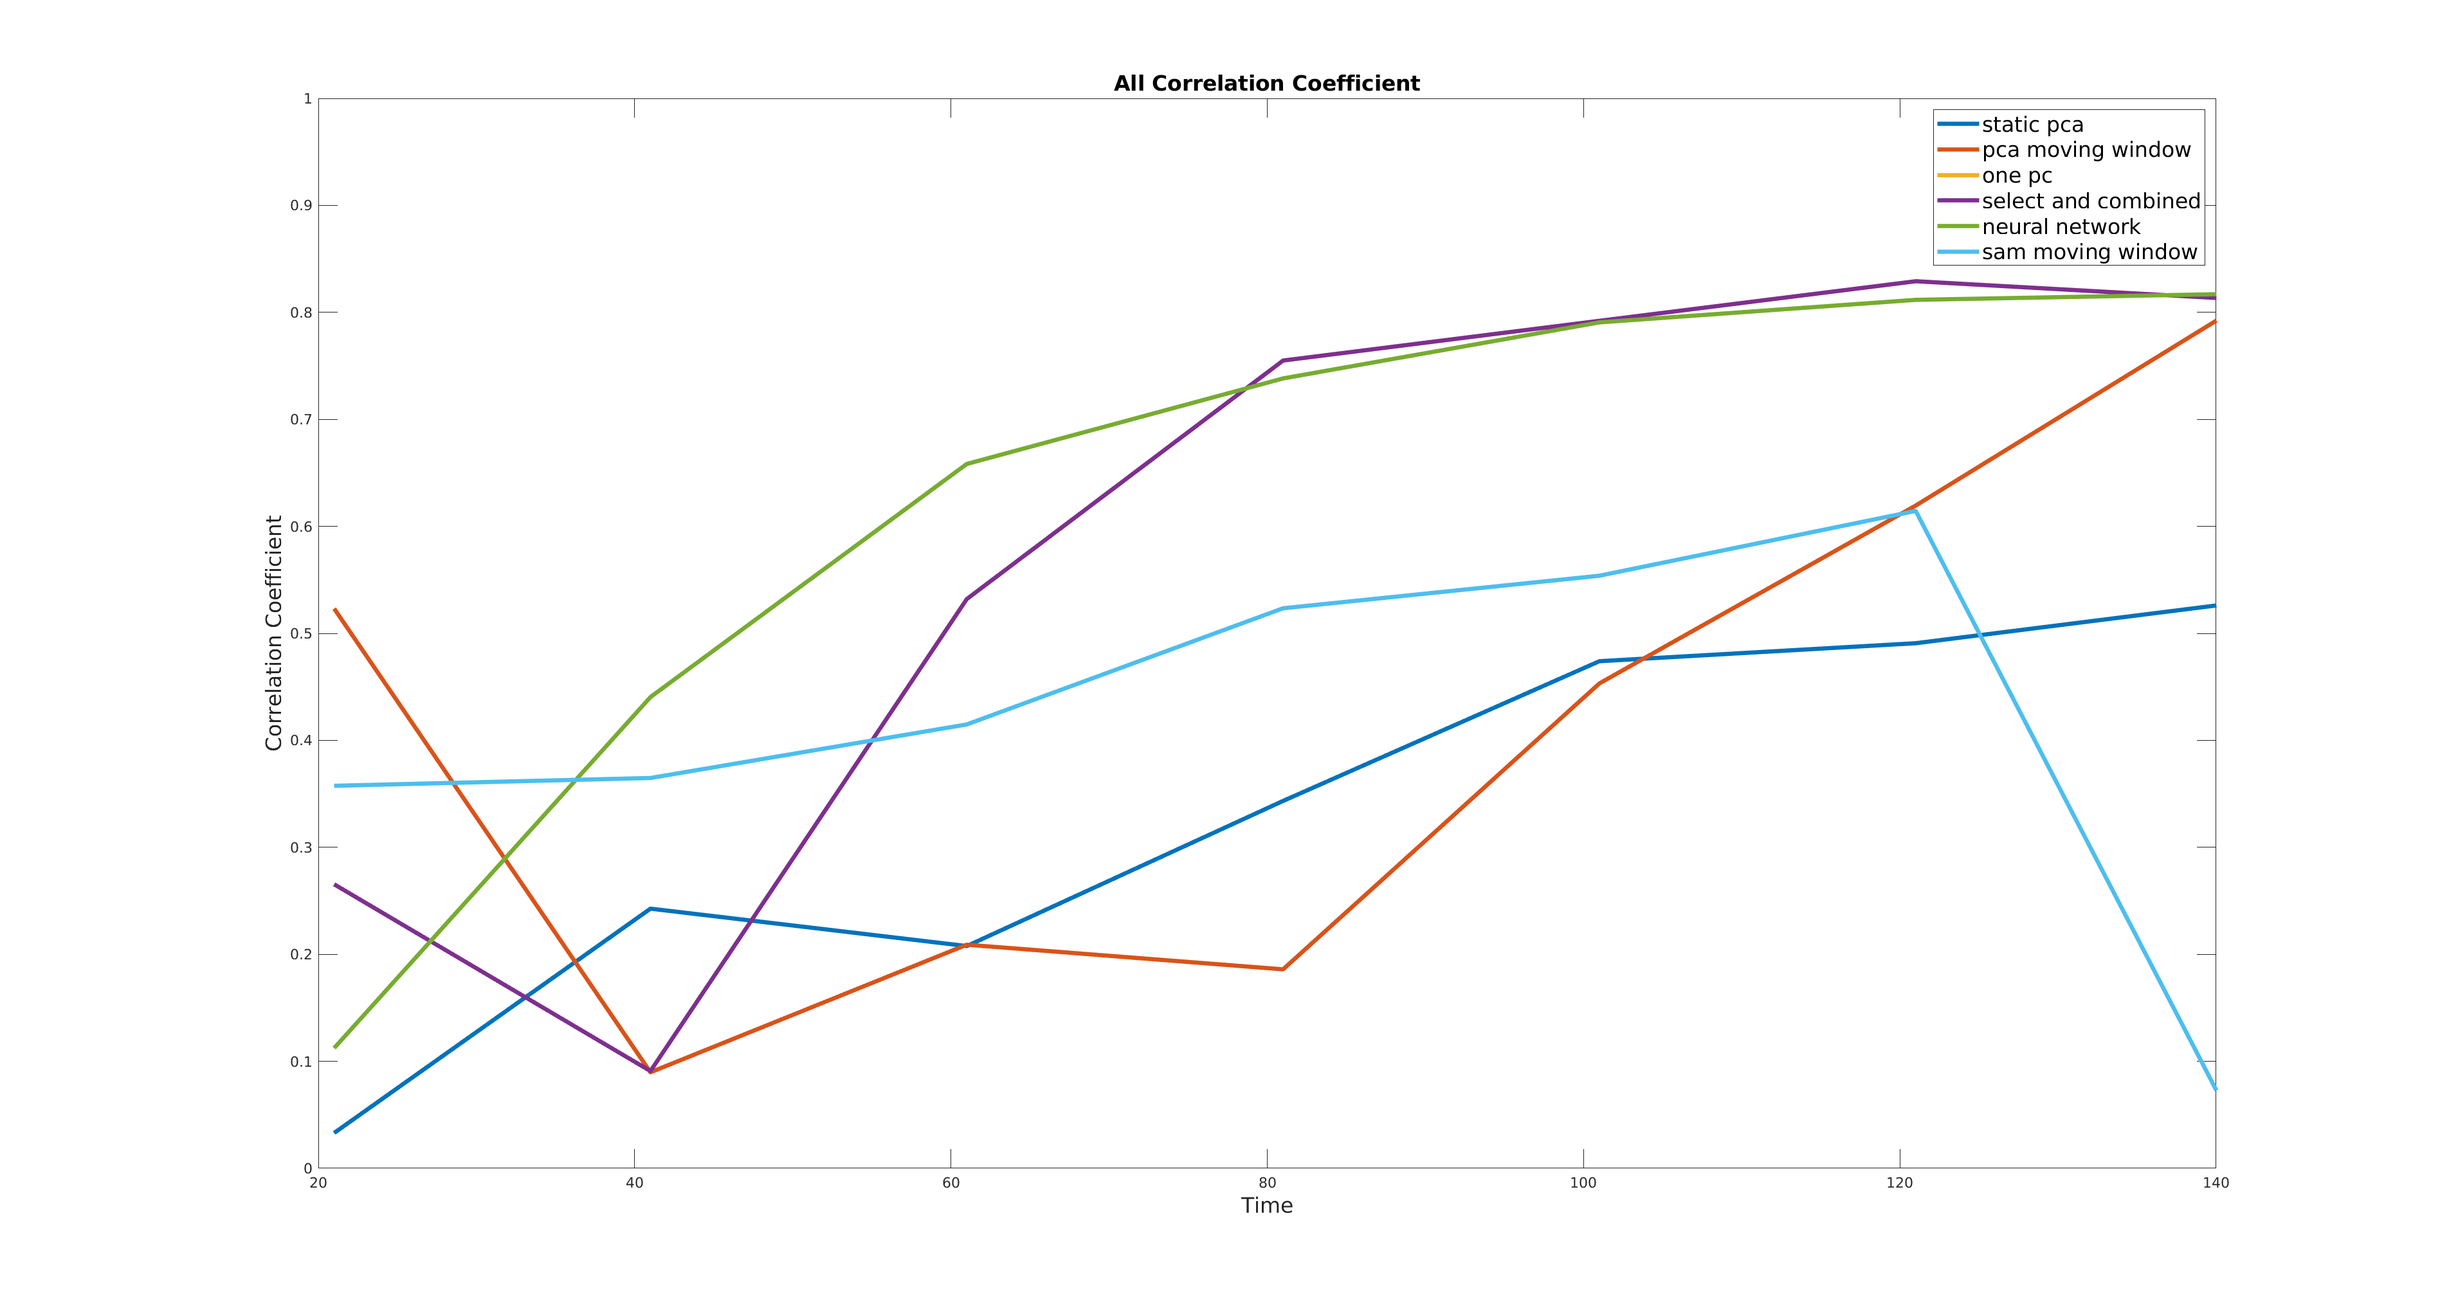
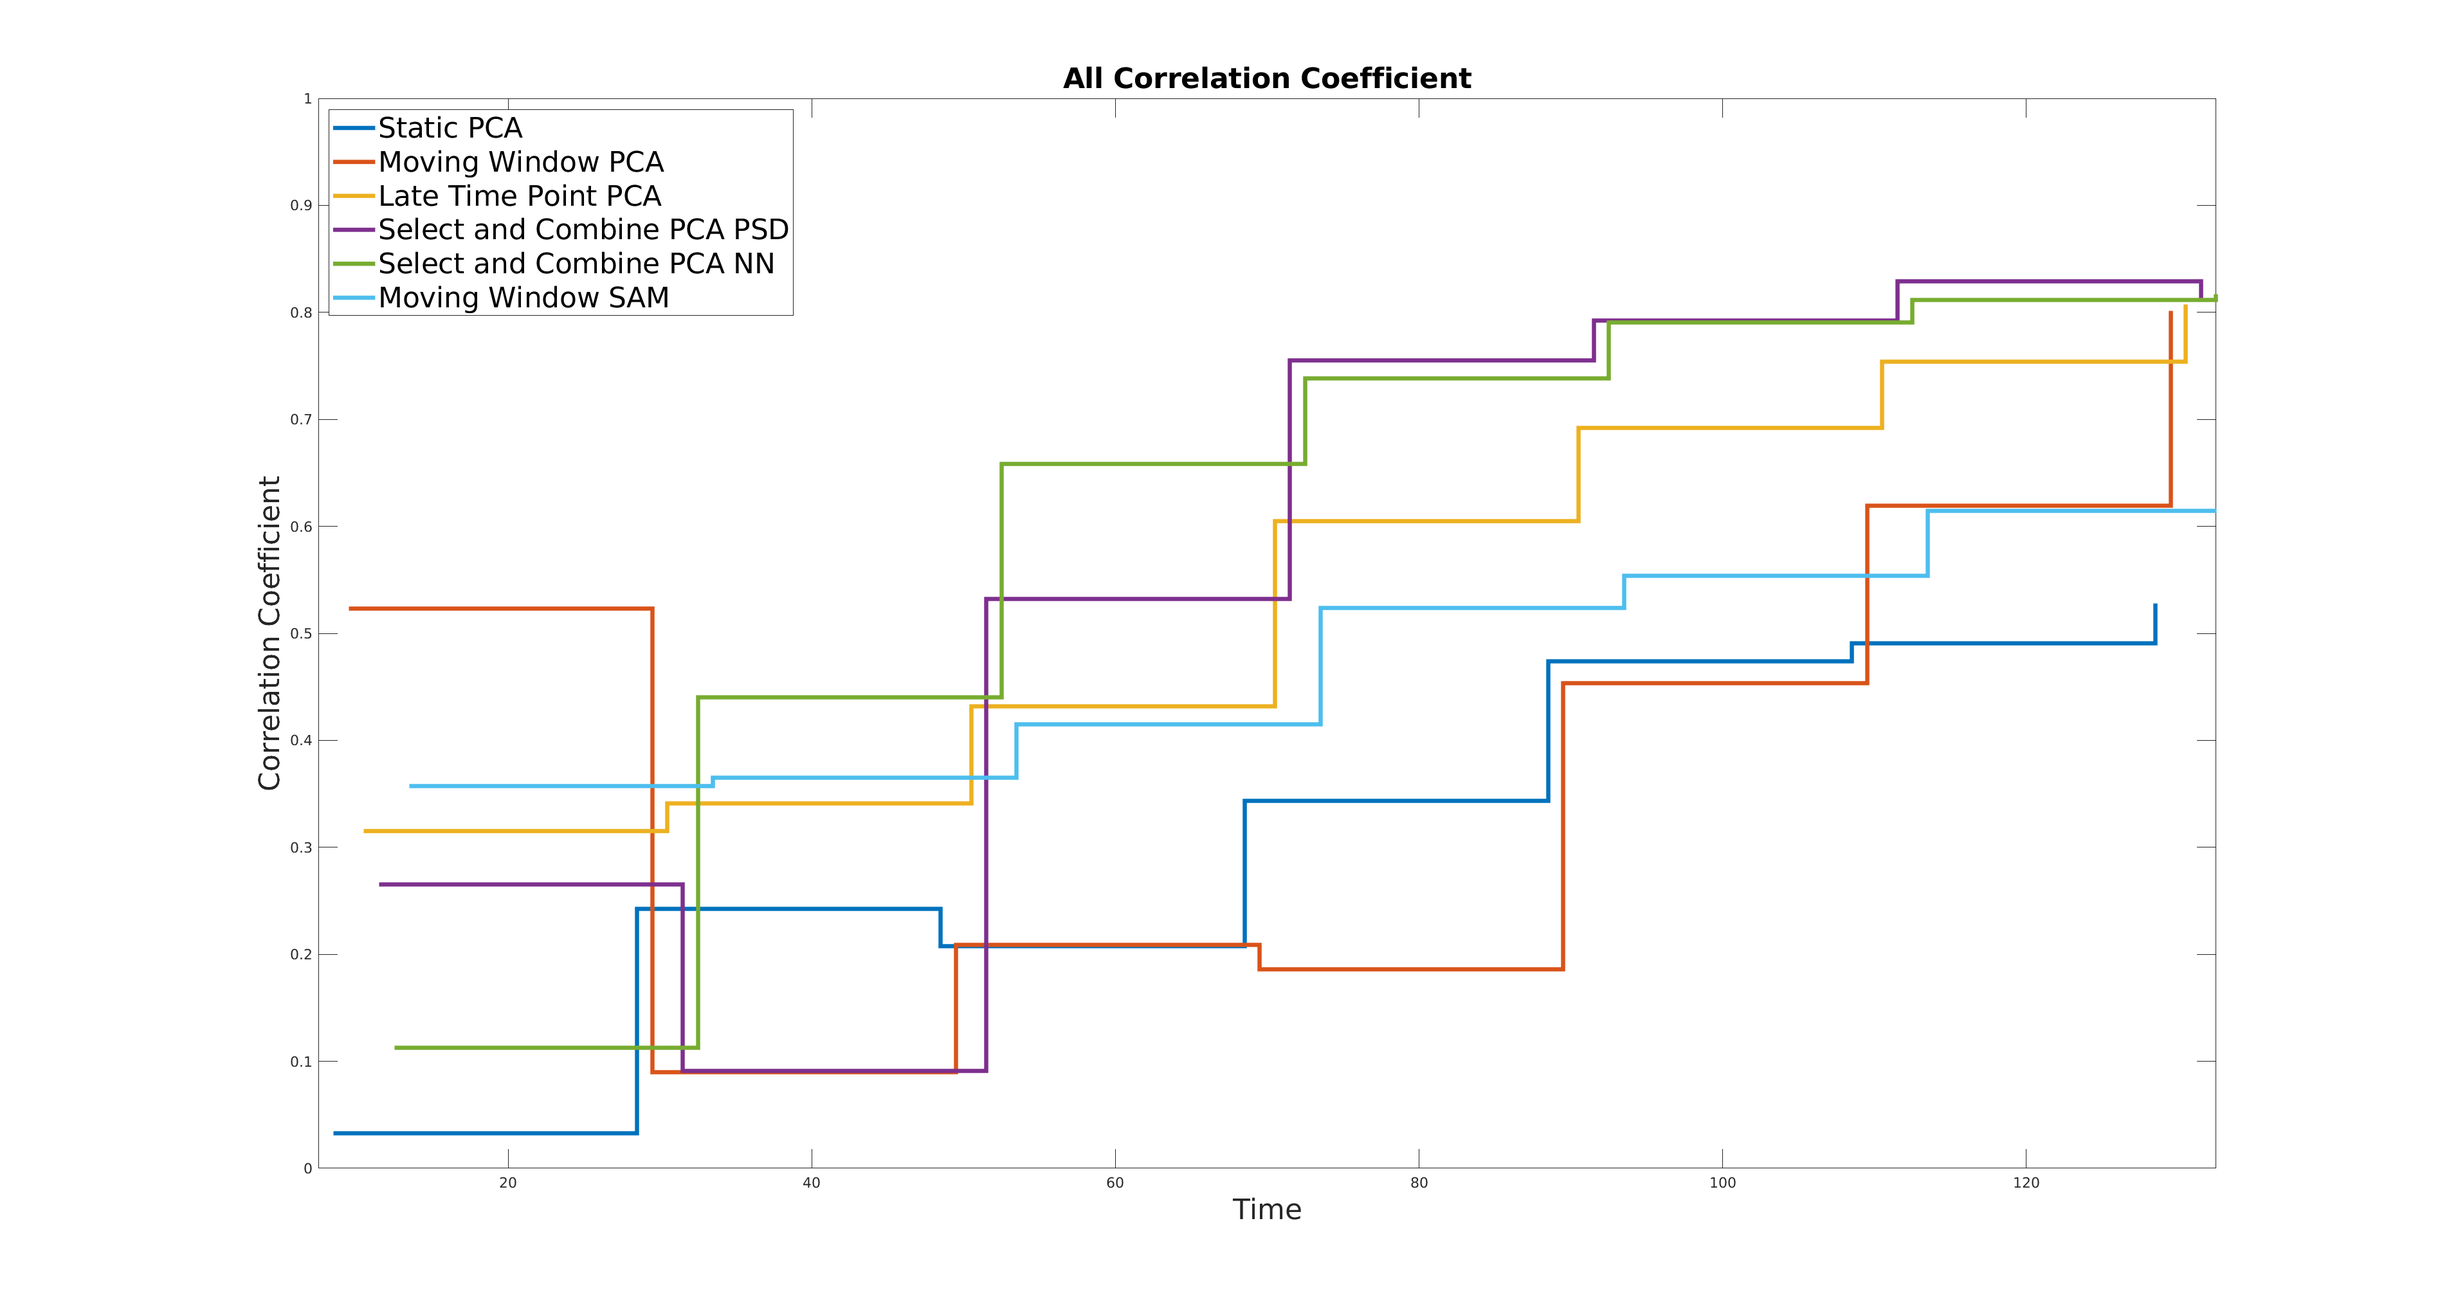
Updates from Overleaf

diff --git a/body.tex b/body.tex
@@ -5,13 +5,13 @@
     
     The aim of this work is to propose several adaptions of the \acrshort{PCA} method, through which it can be used with dynamic \acrshort{PET} data, and compare their performance with a method based on \gls{KRG}. The methods explored in this work include; the use of a moving window, re-use of the \glss{PC} from a later time point to estimate the \gls{SS} from earlier time points, and the automatic selection and combination of multiple \glss{PC}.
 
-\vspace{-0.5cm}
+% \vspace{-0.5cm}
     
 \section{Methods} \label{sec:methods}
     \subsection{Data Acquisition} \label{sec:data_acquisition}
         Data was acquired from a research study with patients suffering from idiopathic pulmonary fibrosis. $21$ dynamic \acrshort{18F-FDG} \acrshort{PET} acquisitions, with a \acrlong{FOV} covering the upper lung and heart, were acquired on a \acrshort{GE} Discovery $710$~\cite{Oh2019OptimalTreatment, Emond2020EffectReconstruction}. \glss{SS} were acquired in parallel using the \gls{RPM}.
     
-    \vspace{-0.5cm}
+    % \vspace{-0.5cm}
         
     \subsection{Data Preparation} \label{sec:data_preparation}
         \gls{TOF} data were unlisted into low spatial resolution sinograms, each with a time frame duration of \SI{500}{\milli\second}, using the \acrshort{GE} PetToolbox, resulting in sinograms with dimensions $95\times16\times47\times11$ (radial positions$\times$angles$\times$transaxial plane$\times$\gls{TOF}).
@@ -20,17 +20,17 @@
         
         \acrshort{PCA} was applied to the \gls{TOF} data~\cite{Bertolli2017DataData}.
     
-    \vspace{-0.5cm}
+    % \vspace{-0.5cm}
         
     \subsection{Moving Window} \label{sec:moving_window}
         The data is split into a series of windows, where each subsequent window overlaps with the previous by half its length. The size of each window is predetermined and was selected experimentally. For this method \acrshort{PCA} is applied independently on each window, and the results are averaged together, after sign correction. As the sign of the signal from each window is arbitrary, the overlapping allows for a common sign to be found, by comparing the correlation coefficient of neighbouring windows. If \gls{SAM} is used here rather than \acrshort{PCA}, then the method approximates \gls{KRG}~\cite{Schleyer2014}.
         
-    \vspace{-0.5cm}
+    % \vspace{-0.5cm}
             
     \subsection{Late Time Point} \label{sec:late_time_point}
         A \gls{PC} from a late time point is taken, and used with early time point data. The cutoff between early and later time points was determined experimentally; by varying the cutoff point and observing the impact on the correlation coefficient, between the output and \gls{RPM} signal for the first \SI{120}{\second} (between \SI{20}{\second} and \SI{140}{\second}).
         
-    \vspace{-0.5cm}
+    % \vspace{-0.5cm}
     
     \subsection{Select and Combine} \label{sec:select_and_combine}
         Here a "respiratory score" is used to order and combine multiple \glss{PC} to maximise this score.
@@ -40,35 +40,35 @@
               
               In the first, \gls{PSD} are calculated, and frequency windows representing the content of information related to radiotracer kinetics, respiratory motion, and noise are defined. The contribution within each window is determined for each \gls{PC}, by finding the maximum magnitude within the windows. Ratios are then calculated between the respiratory and the kinetic windows, and the respiratory and the noise windows and a score determined by the product of these two values.
         
-        % \vspace{-0.5cm}
+        % % \vspace{-0.5cm}
         
         %\subsubsection{Selecting \glss{PC} Using A Neural Network} \label{sec:selecting_pcs_using_a_neural_network}
             In the second, a \gls{NN} was used for scoring. The \gls{NN} is a pre-trained model, designed to accept a signal as input, and return a score between $0.0$ and $1.0$, where the greater the value the more respiratory-like the signal. The \gls{NN} was originally trained on a similar set of training data, where the scores were predetermined by clinicians~\cite{Walker2020AutomaticAI}.
         
-        % \vspace{-0.5cm}
+        % % \vspace{-0.5cm}
         
         \subsubsection{Combining \glss{PC}} \label{sec:combining_pcs}
             \glss{PC} are first sorted according to the score. The sorted \glss{PC} are iterated over and both summed and subtracted with a weighting (the score), and a new score is found for both resulting signals. If one of the signals increases the score, it becomes the new best \gls{PC}, and goes forward to the next iteration. \glss{PC} are both summed and subtracted to handle the arbitrary sign problem.
             
             A similar method of combining signals was developed in~\cite{Kesner2010AMethods}. However, the scoring method used there (standard deviation) is not directly related to respiration. In addition,~\cite{Kesner2010AMethods} combined signals from voxels where our methods uses \glss{PC}.
         
-    \vspace{-0.5cm}
+    % \vspace{-0.5cm}
             
     \subsection{Evaluation} \label{sec:evaluation}
         For evaluation of the results, the correlation coefficient of each \gls{SS} between each method and the \gls{RPM}, for all acquisitions, has been calculated. The correlation coefficient has been calculated for both the first \SI{120}{\second}, and also the entire acquisition.
     
-\vspace{-0.4cm}
+% \vspace{-0.4cm}
             
 \section{Results} \label{sec:results}
     \begin{figure}
-        \vspace{-0.5cm}
+        % \vspace{-0.5cm}
         
         \centering
         
         \includegraphics[width=1.0\linewidth]{figures/patient_one_output.png}
         % \includegraphics[width=1.0\linewidth]{figures/patient_one_output.png}
         
-        \vspace{-0.4cm}
+        % \vspace{-0.4cm}
         
         \captionsetup{singlelinecheck=false, justification=centering}
         \caption{
@@ -77,18 +77,18 @@
         
         \label{fig:patient_one_output}
         
-        \vspace{-0.5cm}
+        % \vspace{-0.5cm}
     \end{figure}
     
     \begin{figure}
-        \vspace{-0.5cm}
+        % \vspace{-0.5cm}
         
         \centering
         
         \includegraphics[width=1.0\linewidth]{figures/box_plot.png}
         % \includegraphics[width=1.0\linewidth]{figures/box_plot.png}
         
-        \vspace{-0.4cm}
+        % \vspace{-0.4cm}
         
         \captionsetup{singlelinecheck=false, justification=centering}
         \caption{
@@ -97,21 +97,18 @@
         
         \label{fig:box_plot}
         
-        % \vspace{-0.5cm}
+        % % \vspace{-0.5cm}
     \end{figure}
     
     \begin{figure}
-        % \vspace{-0.5cm}
+        % % \vspace{-0.5cm}
         
         \centering
         
-        \includegraphics[width=1.0\linewidth]{figures/all_correlation_coefficient_stairs.png}
-        % \includegraphics[width=1.0\linewidth]{figures/all_correlation_coefficient_stairs.png}
-        
-        % \includegraphics[width=1.0\linewidth]{figures/all_correlation_coefficient.png}
+        \includegraphics[width=1.0\linewidth]{figures/all_correlation_coefficient.png}
         % \includegraphics[width=1.0\linewidth]{figures/all_correlation_coefficient.png}
         
-        \vspace{-0.5cm}
+        % \vspace{-0.5cm}
         
         \captionsetup{singlelinecheck=false, justification=centering}
         \caption{
@@ -120,35 +117,35 @@
         
         \label{fig:all_cross_correlation}
         
-        \vspace{-0.5cm}
+        % \vspace{-0.5cm}
     \end{figure}
     
-    % \begin{figure}
-    %     \vspace{-0.5cm}
-    %     \centering
+    \begin{figure}
+        % \vspace{-0.5cm}
+        \centering
     
-    %     \includegraphics[width=1.0\linewidth]{figures/patient_one_pc_output.png}    
-    %     \includegraphics[width=1.0\linewidth]{figures/patient_one_pc_output.png}
+        \includegraphics[width=1.0\linewidth]{figures/patient_one_pc_output.png}    
+        % \includegraphics[width=1.0\linewidth]{figures/patient_one_pc_output.png}
     
-    %     \vspace{-0.5cm}
+        % \vspace{-0.5cm}
         
-    %     \captionsetup{singlelinecheck=false, justification=centering}
-    %     \caption{
-    %     \scriptsize
-    %     A plot showing the \gls{PC} used to generate the output signal (taken for the first acquisition of patient one).}
+        \captionsetup{singlelinecheck=false, justification=centering}
+        \caption{
+        % \scriptsize
+        A plot showing the \gls{PC} used to generate the output signal (taken for the first acquisition of patient one).}
     
-    %     \label{fig:patient_one_pc_output}
+        \label{fig:patient_one_pc_output}
     
-    %     \vspace{-0.5cm}
-    % \end{figure}
+        % \vspace{-0.5cm}
+    \end{figure}
     
     From~\Fref{fig:patient_one_output} and~\Fref{fig:all_cross_correlation} it can be observed that the Static \acrshort{PCA} method has failed, as expected. Both Moving Window methods extract a signal at later time points only. The Late Time Point, Select and Combine \gls{PSD}, and Select and Combine \gls{NN} methods all appear to be able to extract a usable signal, down to \SI{20}{\second} after the start of the scan.
     
     In~\Fref{fig:box_plot}, the improvement of the Late Time Point, Select and Combine \gls{PSD}, and Select and Combine \gls{NN} methods is most apparent, with high correlation coefficients for both the early time point, as well as for all data. The Select and Combine methods show marginally higher correlation coefficients than the Late Time Point method, and the \gls{NN} shows slightly higher correlation coefficients than the \gls{PSD}.
     
-    % In~\Fref{fig:patient_one_pc_output} it can be observed the Static \acrshort{PCA} method returns a \gls{PC} which closely resembles the input data, leading to the conclusion that variation from a number of sources is included. It appears from a visual inspection that the least confounding variation and noise is included in the Select and Combine with \gls{NN} method.
+    In~\Fref{fig:patient_one_pc_output} it can be observed the Static \acrshort{PCA} method returns a \gls{PC} which closely resembles the input data, leading to the conclusion that variation from a number of sources is included. It appears from a visual inspection that the least confounding variation and noise is included in the Select and Combine with \gls{NN} method.
 
-\vspace{-0.4cm}
+% \vspace{-0.4cm}
 
 \section{Discussion and Conclusions} \label{sec:discussion_and_conclusions}
     Results from the comparison to the \gls{RPM} indicate, the Late Time Point and both Select and Combine methods are more robust and afford higher quality signals than both Moving Window methods. The results also indicate, both Select and Combine methods can give a higher correlation coefficient earlier than the Late Time Point method. The \gls{NN} shows slightly higher correlation coefficient than the \gls{PSD}.

diff --git a/main.tex b/main.tex
@@ -2,20 +2,20 @@
 \IEEEoverridecommandlockouts
 
 \usepackage[activate={true, nocompatibility}, final, tracking=true, kerning=true, spacing=true, factor=1100, stretch=10, shrink=10]{microtype}
-\linespread{0.95}
+% \linespread{0.95}
 
-% \def\ps@IEEEtitlepagestyle{
-%   \def\@oddfoot{\mycopyrightnotice}
-%   \def\@evenfoot{}
-% }
-% \def\mycopyrightnotice{
-%   {\footnotesize
-%   \begin{minipage}{\textwidth}
-%   \centering
-%   978-1-7281-7693-2/20/\$31.00 \copyright2020 IEEE
-%   \end{minipage}
-%   }
-% }
+\def\ps@IEEEtitlepagestyle{
+  \def\@oddfoot{\mycopyrightnotice}
+  \def\@evenfoot{}
+}
+\def\mycopyrightnotice{
+  {\footnotesize
+  \begin{minipage}{\textwidth}
+  \centering
+  978-1-7281-7693-2/20/\$31.00 \copyright2020 IEEE
+  \end{minipage}
+  }
+}
 
 \ifCLASSINFOpdf
    \usepackage[pdftex]{graphicx}
@@ -49,22 +49,22 @@
 \usepackage[style=ieee, doi=false, isbn=false, url=false, maxbibnames=1, minbibnames=1, maxcitenames=1, mincitenames=1, backend=biber, defernumbers=false]{biblatex}
 \addbibresource{./bibtex/bib/Biblio.bib}
 
-\AtEveryBibitem{\clearfield{month}}
-\AtEveryBibitem{\clearfield{day}}
-\AtEveryBibitem{\clearfield{volume}}
-\AtEveryBibitem{\clearfield{issue}}
-\AtEveryBibitem{\clearfield{pages}}
-\AtEveryBibitem{\clearfield{number}}
-\AtEveryBibitem{\clearfield{title}}
-\AtEveryBibitem{\clearfield{isbn}}
-\AtEveryBibitem{\clearfield{keywords}}
-\AtEveryBibitem{\clearfield{issn}}
-\AtEveryBibitem{\clearfield{journal}}
+% \AtEveryBibitem{\clearfield{month}}
+% \AtEveryBibitem{\clearfield{day}}
+% \AtEveryBibitem{\clearfield{volume}}
+% \AtEveryBibitem{\clearfield{issue}}
+% \AtEveryBibitem{\clearfield{pages}}
+% \AtEveryBibitem{\clearfield{number}}
+% \AtEveryBibitem{\clearfield{title}}
+% \AtEveryBibitem{\clearfield{isbn}}
+% \AtEveryBibitem{\clearfield{keywords}}
+% \AtEveryBibitem{\clearfield{issn}}
+% \AtEveryBibitem{\clearfield{journal}}
 
 \begin{document}
 
 \title{
-    \vspace{-0.75cm}
+    % \vspace{-0.75cm}
 
     Data Driven Surrogate Signal Extraction for Dynamic PET using Selective PCA
 }
@@ -73,7 +73,7 @@
 \pagenumbering{gobble}
 
 \author{
-    \vspace{-0.2cm}
+    % \vspace{-0.2cm}
     
     \IEEEauthorblockN{
         Alexander~C.~Whitehead~\IEEEauthorrefmark{1}~\IEEEauthorrefmark{2},
@@ -107,7 +107,7 @@
     \IEEEauthorblockA{
         \IEEEauthorrefmark{5}
         \textit{Centre for Respiratory Medicine, University College London, UK}
-        \vspace{-0.75cm}
+        % \vspace{-0.75cm}
     }
 
     \thanks{This research was supported by GE Healthcare, the NIHR UCLH Biomedical Research Centre and the UCL EPSRC Centre for Doctoral Training in Intelligent, Integrated Imaging in Healthcare (i4health) grant (EP/L016478/1).}
@@ -123,16 +123,16 @@
     Respiratory motion correction is beneficial in PET. Methods of motion correction include gated reconstruction, where the acquisition is binned, based on a respiratory trace. To acquire these respiratory traces, an external device, like the Real Time Position Management System, or a data driven method, such as PCA, can be used. Data driven methods have the advantage that they are non-invasive, and can be performed post-acquisition. However, data driven methods have the disadvantage that they are adversely affected by the tracer kinetics of a dynamic acquisition. This work seeks to evaluate several adaptions of the PCA method, through which it can be used with dynamic data. The methods explored in this work include, using a moving window (similar to the KRG method of Schleyer et al. (PMB 2014)), extrapolation of the principal component from later time points to earlier time points, as well as a method to select and combine multiple respiratory components. The respiratory traces acquired, were evaluated on $21$ patients, by calculating their correlation with a Real Time Position Management System surrogate signal. The results indicate that all methods produce better surrogate signals than when applying static PCA to dynamic data. Extrapolating a late principal component, produced more promising results than using a moving window, and selecting and combining components held benefits for all methods.
 \end{abstract}
 
-\vspace{-0.5cm}
+% \vspace{-0.5cm}
 
 \input{body}
 
-\vspace{-0.5cm}
+% \vspace{-0.5cm}
 
-\AtNextBibliography{
+% \AtNextBibliography{
     % \scriptsize
-    \small
-}
+%     \small
+% }
 \printbibliography
 
 \end{document}
